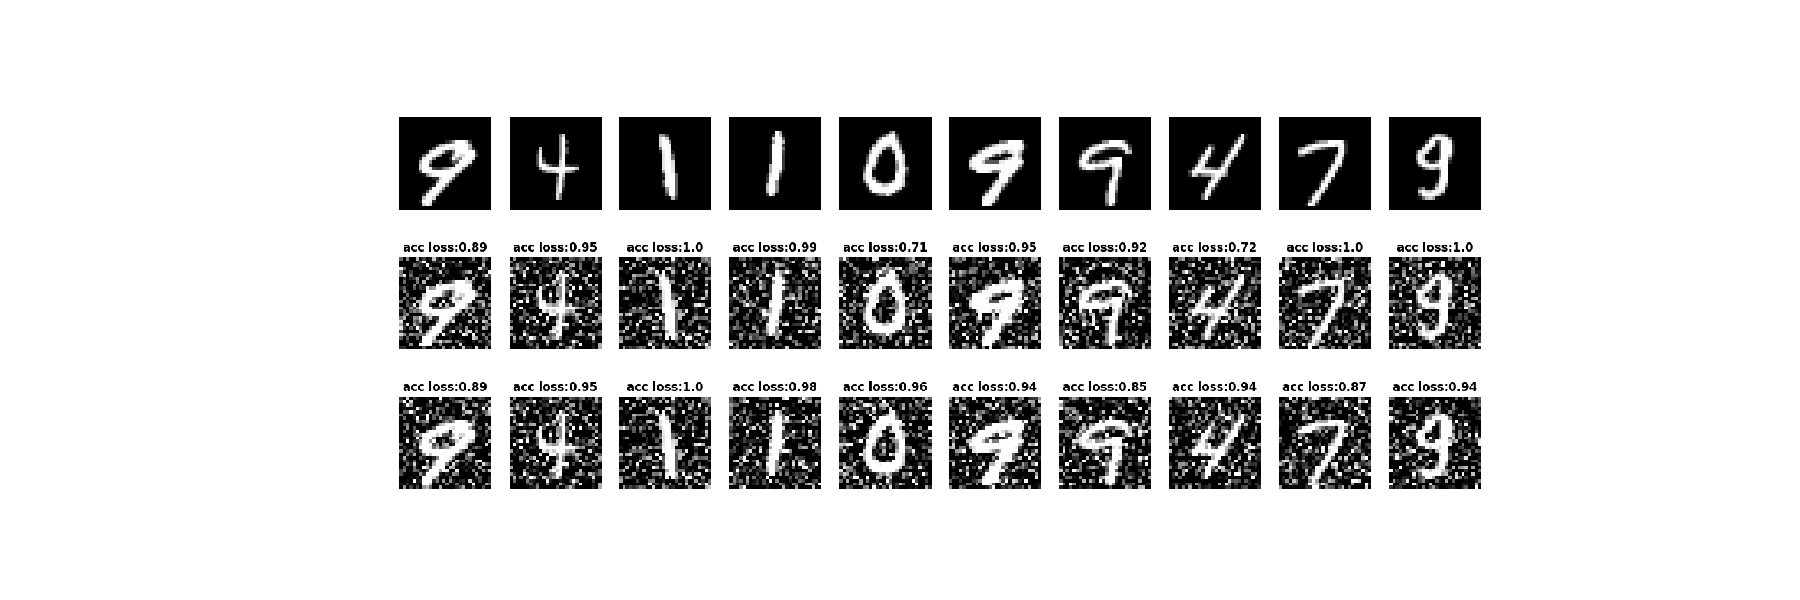
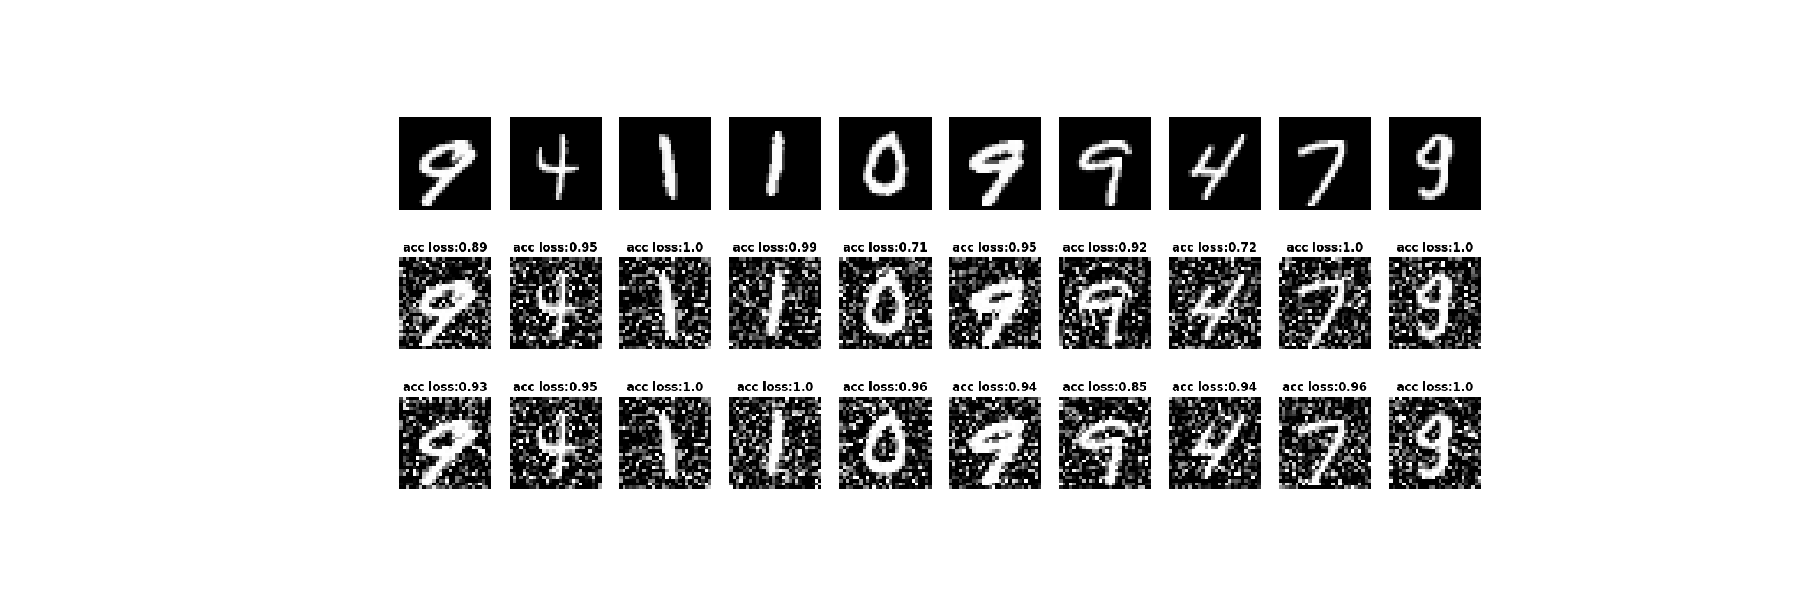
update

Changed region(s): [[0.6844, 0.63, 0.84, 0.84], [0.4044, 0.63, 0.4667, 0.84], [0.2178, 0.66, 0.28, 0.84]]

diff --git a/reinforcement_black_box/variety_agent.py b/reinforcement_black_box/variety_agent.py
@@ -152,11 +152,15 @@ class varietyAgent(object):
             accl = None
         else:
             image_keyname = self.StateSearching(input_image)
-            all_mags = self.adv_sample_table[image_keyname]['mag']
-            mag_val = []
-            for mag in all_mags:
-                mag_val.append(np.mean(mag))
-            index_min = np.argmin(mag_val)
+            # all_mags = self.adv_sample_table[image_keyname]['mag']
+            # mag_val = []
+            # for mag in all_mags:
+            #     mag_val.append(np.mean(mag))
+            all_accs = self.adv_sample_table[image_keyname]['accl']
+            accs = []
+            for acc in all_accs:
+                accs.append(acc)
+            index_min = np.argmax(accs)
             adv_sample = self.adv_sample_table[image_keyname]['adv'][index_min]
             accl = self.adv_sample_table[image_keyname]['accl'][index_min]
         return adv_sample, accl
